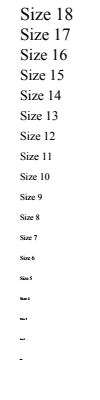
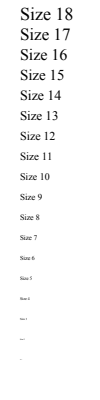
Remove ContrastAdjust().
This post-processing increased the contrast of scaled-down features -
mainly lines and fonts, relative to the background. The effect does not
improved readability and in some cases makes the scaled-down version
look like a different document at a glance. Text that is normal
weight appears bold when scaled down in these cases.

Commit-Queue: Henrique Nakashima <hnakashima@chromium.org>

diff --git a/fpdfsdk/fpdfannot_embeddertest.cpp b/fpdfsdk/fpdfannot_embeddertest.cpp
@@ -283,7 +283,7 @@ TEST_F(FPDFAnnotEmbeddertest, AddAndSaveUnderlineAnnotation) {
   FPDF_ClosePage(page);
 
   // Open the saved document.
-  const char md5[] = "184b67b322edaee27994b3232544b8b3";
+  const char md5[] = "dba153419f67b7c0c0e3d22d3e8910d5";
 
   OpenSavedDocument();
   LoadSavedPage();
@@ -316,13 +316,13 @@ TEST_F(FPDFAnnotEmbeddertest, ModifyRectQuadpointsWithAP) {
   const char md5_modified_highlight[] = "aec26075011349dec9bace891856b5f2";
   const char md5_modified_square[] = "057f57a32be95975775e5ec513fdcb56";
 #elif _FX_PLATFORM_ == _FX_PLATFORM_WINDOWS_
-  const char md5_original[] = "ade6762a70e85605546ce067e7d2148f";
-  const char md5_modified_highlight[] = "fb8440ed1a070b53ed5598ce7451cfad";
-  const char md5_modified_square[] = "7925f6726b343393f258e8b4e93dd65d";
+  const char md5_original[] = "0e27376094f11490f74c65f3dc3a42c5";
+  const char md5_modified_highlight[] = "66f3caef3a7d488a4fa1ad37fc06310e";
+  const char md5_modified_square[] = "a456dad0bc6801ee2d6408a4394af563";
 #else
-  const char md5_original[] = "ade6762a70e85605546ce067e7d2148f";
-  const char md5_modified_highlight[] = "fb8440ed1a070b53ed5598ce7451cfad";
-  const char md5_modified_square[] = "7925f6726b343393f258e8b4e93dd65d";
+  const char md5_original[] = "0e27376094f11490f74c65f3dc3a42c5";
+  const char md5_modified_highlight[] = "66f3caef3a7d488a4fa1ad37fc06310e";
+  const char md5_modified_square[] = "a456dad0bc6801ee2d6408a4394af563";
 #endif
 
   // Open a file with four annotations and load its first page.
@@ -492,15 +492,15 @@ TEST_F(FPDFAnnotEmbeddertest, AddAndModifyPath) {
   const char md5_two_paths[] = "e8994452fc4385337bae5522354e10ff";
   const char md5_new_annot[] = "ee5372b31fede117fc83b9384598aa25";
 #elif _FX_PLATFORM_ == _FX_PLATFORM_WINDOWS_
-  const char md5_original[] = "4f64add0190ede63f7bb9eb1e2e83edb";
-  const char md5_modified_path[] = "681f0d0738dded0722e146f6c219bfac";
-  const char md5_two_paths[] = "67c7e90fc3b64e20f6b69a1744f7f4f0";
-  const char md5_new_annot[] = "262187984451bae2fe826067d68623ff";
+  const char md5_original[] = "964f89bbe8911e540a465cf1a64b7f7e";
+  const char md5_modified_path[] = "3f77b88ce6048e08e636c9a03921b2e5";
+  const char md5_two_paths[] = "bffbf5ecd15862b9fe553c795400ff8e";
+  const char md5_new_annot[] = "e020534c7eeea76be537c70d6e359a40";
 #else
-  const char md5_original[] = "4f64add0190ede63f7bb9eb1e2e83edb";
-  const char md5_modified_path[] = "681f0d0738dded0722e146f6c219bfac";
-  const char md5_two_paths[] = "67c7e90fc3b64e20f6b69a1744f7f4f0";
-  const char md5_new_annot[] = "262187984451bae2fe826067d68623ff";
+  const char md5_original[] = "964f89bbe8911e540a465cf1a64b7f7e";
+  const char md5_modified_path[] = "3f77b88ce6048e08e636c9a03921b2e5";
+  const char md5_two_paths[] = "bffbf5ecd15862b9fe553c795400ff8e";
+  const char md5_new_annot[] = "e020534c7eeea76be537c70d6e359a40";
 #endif
 
   // Open a file with two annotations and load its first page.
@@ -673,13 +673,13 @@ TEST_F(FPDFAnnotEmbeddertest, AddAndModifyImage) {
   const char md5_new_image[] = "ff012f5697436dfcaec25b32d1333596";
   const char md5_modified_image[] = "86cf8cb2755a7a2046a543e66d9c1e61";
 #elif _FX_PLATFORM_ == _FX_PLATFORM_WINDOWS_
-  const char md5_original[] = "4f64add0190ede63f7bb9eb1e2e83edb";
-  const char md5_new_image[] = "6fb176c20996cc554d0210d8c8b6138f";
-  const char md5_modified_image[] = "546959714dfb0dcd7e7b00259e8d178c";
+  const char md5_original[] = "964f89bbe8911e540a465cf1a64b7f7e";
+  const char md5_new_image[] = "9ea8732dc9d579f68853f16892856208";
+  const char md5_modified_image[] = "74239d2a8c55c9de1dbb9cd8781895aa";
 #else
-  const char md5_original[] = "4f64add0190ede63f7bb9eb1e2e83edb";
-  const char md5_new_image[] = "6fb176c20996cc554d0210d8c8b6138f";
-  const char md5_modified_image[] = "546959714dfb0dcd7e7b00259e8d178c";
+  const char md5_original[] = "964f89bbe8911e540a465cf1a64b7f7e";
+  const char md5_new_image[] = "9ea8732dc9d579f68853f16892856208";
+  const char md5_modified_image[] = "74239d2a8c55c9de1dbb9cd8781895aa";
 #endif
 
   // Open a file with two annotations and load its first page.
@@ -750,13 +750,13 @@ TEST_F(FPDFAnnotEmbeddertest, AddAndModifyText) {
   const char md5_new_text[] = "e5680ed048c2cfd9a1d27212cdf41286";
   const char md5_modified_text[] = "79f5cfb0b07caaf936f65f6a7a57ce77";
 #elif _FX_PLATFORM_ == _FX_PLATFORM_WINDOWS_
-  const char md5_original[] = "4f64add0190ede63f7bb9eb1e2e83edb";
-  const char md5_new_text[] = "998abae4962f8f41e094e7612d8339fc";
-  const char md5_modified_text[] = "e89b82ca4589b8f0b45fff42ca3a96a4";
+  const char md5_original[] = "964f89bbe8911e540a465cf1a64b7f7e";
+  const char md5_new_text[] = "00b14fa2dc1c90d1b0d034e1608efef5";
+  const char md5_modified_text[] = "076c8f24a09ddc0e49f7e758edead6f0";
 #else
-  const char md5_original[] = "4f64add0190ede63f7bb9eb1e2e83edb";
-  const char md5_new_text[] = "998abae4962f8f41e094e7612d8339fc";
-  const char md5_modified_text[] = "e89b82ca4589b8f0b45fff42ca3a96a4";
+  const char md5_original[] = "964f89bbe8911e540a465cf1a64b7f7e";
+  const char md5_new_text[] = "00b14fa2dc1c90d1b0d034e1608efef5";
+  const char md5_modified_text[] = "076c8f24a09ddc0e49f7e758edead6f0";
 #endif
 
   // Open a file with two annotations and load its first page.
@@ -880,9 +880,9 @@ TEST_F(FPDFAnnotEmbeddertest, GetSetStringValue) {
 #if _FX_PLATFORM_ == _FX_PLATFORM_APPLE_
   const char md5[] = "4d64e61c9c0f8c60ab3cc3234bb73b1c";
 #elif _FX_PLATFORM_ == _FX_PLATFORM_WINDOWS_
-  const char md5[] = "0e3710ea6476f5bcba2cd39eb42d54e2";
+  const char md5[] = "c96ee1f316d7f5a1b154de9f9d467f01";
 #else
-  const char md5[] = "0e3710ea6476f5bcba2cd39eb42d54e2";
+  const char md5[] = "c96ee1f316d7f5a1b154de9f9d467f01";
 #endif
   OpenSavedDocument();
   LoadSavedPage();

diff --git a/fpdfsdk/fpdfedit_embeddertest.cpp b/fpdfsdk/fpdfedit_embeddertest.cpp
@@ -422,7 +422,7 @@ TEST_F(FPDFEditEmbeddertest, PathOnTopOfText) {
 #if _FX_PLATFORM_ == _FX_PLATFORM_APPLE_
   const char md5[] = "f9e6fa74230f234286bfcada9f7606d8";
 #else
-  const char md5[] = "bc6e6eb50dda4695ba0fb4d04ed82ada";
+  const char md5[] = "aa71b09b93b55f467f1290e5111babee";
 #endif
   CompareBitmap(bitmap, 200, 200, md5);
   FPDFBitmap_Destroy(bitmap);
@@ -551,7 +551,7 @@ TEST_F(FPDFEditEmbeddertest, AddStandardFontText) {
 #if _FX_PLATFORM_ == _FX_PLATFORM_APPLE_
   const char md5[] = "a4dddc1a3930fa694bbff9789dab4161";
 #else
-  const char md5[] = "7a35771853a1cbba38f6775807878625";
+  const char md5[] = "eacaa24573b8ce997b3882595f096f00";
 #endif
   CompareBitmap(page_bitmap, 612, 792, md5);
   FPDFBitmap_Destroy(page_bitmap);
@@ -569,9 +569,9 @@ TEST_F(FPDFEditEmbeddertest, AddStandardFontText) {
 #if _FX_PLATFORM_ == _FX_PLATFORM_APPLE_
   const char md5_2[] = "a5c4ace4c6f27644094813fe1441a21c";
 #elif _FX_PLATFORM_ == _FX_PLATFORM_WINDOWS_
-  const char md5_2[] = "b231b329a4b566fb9b42bfc15fe59bb7";
+  const char md5_2[] = "2587eac9a787e97a37636d54d11bd28d";
 #else
-  const char md5_2[] = "f85fae151851436072b7b3c6703e506a";
+  const char md5_2[] = "76fcc7d08aa15445efd2e2ceb7c6cc3b";
 #endif
   CompareBitmap(page_bitmap, 612, 792, md5_2);
   FPDFBitmap_Destroy(page_bitmap);
@@ -589,9 +589,9 @@ TEST_F(FPDFEditEmbeddertest, AddStandardFontText) {
 #if _FX_PLATFORM_ == _FX_PLATFORM_APPLE_
   const char md5_3[] = "40b3ef04f915ff4c4208948001763544";
 #elif _FX_PLATFORM_ == _FX_PLATFORM_WINDOWS_
-  const char md5_3[] = "ba874b3b137f984510c4e287ed4ba7ae";
+  const char md5_3[] = "7cb61ec112cf400b489360d443ffc9d2";
 #else
-  const char md5_3[] = "c5aed6a8ef05558c8c47d58c87cbcb46";
+  const char md5_3[] = "b8a21668f1dab625af7c072e07fcefc4";
 #endif
   CompareBitmap(page_bitmap, 612, 792, md5_3);
   FPDFBitmap_Destroy(page_bitmap);
@@ -892,7 +892,7 @@ TEST_F(FPDFEditEmbeddertest, AddTrueTypeFontText) {
 #if _FX_PLATFORM_ == _FX_PLATFORM_APPLE_
     const char md5[] = "17d2b6cd574cf66170b09c8927529a94";
 #else
-    const char md5[] = "1722c6a9deed953d730de9cd13dcbd55";
+    const char md5[] = "70592859010ffbf532a2237b8118bcc4";
 #endif  // _FX_PLATFORM_ == _FX_PLATFORM_APPLE_
     CompareBitmap(page_bitmap, 612, 792, md5);
     FPDFBitmap_Destroy(page_bitmap);
@@ -910,7 +910,7 @@ TEST_F(FPDFEditEmbeddertest, AddTrueTypeFontText) {
 #if _FX_PLATFORM_ == _FX_PLATFORM_APPLE_
   const char md5_2[] = "8eded4193ff1f0f77b8b600a825e97ea";
 #else
-  const char md5_2[] = "9d7885072058f6c3e68ecaf32e917f30";
+  const char md5_2[] = "c1d10cce1761c4a998a16b2562030568";
 #endif  // _FX_PLATFORM_ == _FX_PLATFORM_APPLE_
   CompareBitmap(page_bitmap2, 612, 792, md5_2);
   FPDFBitmap_Destroy(page_bitmap2);
@@ -985,7 +985,7 @@ TEST_F(FPDFEditEmbeddertest, AddCIDFontText) {
 
   // Check that the text renders properly.
   FPDF_BITMAP page_bitmap = RenderPage(page);
-  const char md5[] = "2bc6c1aaa2252e73246a75775ccf38c2";
+  const char md5[] = "c68cd79aa72bf83a7b25271370d46b21";
   CompareBitmap(page_bitmap, 612, 792, md5);
   FPDFBitmap_Destroy(page_bitmap);
 

diff --git a/core/fxge/cfx_facecache.cpp b/core/fxge/cfx_facecache.cpp
@@ -35,47 +35,7 @@ namespace {
 
 constexpr uint32_t kInvalidGlyphIndex = static_cast<uint32_t>(-1);
 
-constexpr int kMinPixel = 0;
-constexpr int kMaxPixel = 255;
-
 constexpr int kMaxGlyphDimension = 2048;
-
-void ContrastAdjust(uint8_t* pDataIn,
-                    uint8_t* pDataOut,
-                    int nWidth,
-                    int nHeight,
-                    int nSrcRowBytes,
-                    int nDstRowBytes) {
-  int max = kMinPixel;
-  int min = kMaxPixel;
-  for (int row = 0; row < nHeight; row++) {
-    uint8_t* pRow = pDataIn + row * nSrcRowBytes;
-    for (int col = 0; col < nWidth; col++) {
-      int val = pRow[col];
-      max = std::max(val, max);
-      min = std::min(val, min);
-    }
-  }
-  int diff = max - min;
-  if (diff == kMinPixel || diff == kMaxPixel) {
-    int rowbytes = std::min(abs(nSrcRowBytes), nDstRowBytes);
-    for (int row = 0; row < nHeight; row++) {
-      memcpy(pDataOut + row * nDstRowBytes, pDataIn + row * nSrcRowBytes,
-             rowbytes);
-    }
-    return;
-  }
-  float rate = 255.f / diff;
-  for (int row = 0; row < nHeight; row++) {
-    uint8_t* pSrcRow = pDataIn + row * nSrcRowBytes;
-    uint8_t* pDstRow = pDataOut + row * nDstRowBytes;
-    for (int col = 0; col < nWidth; col++) {
-      int val = static_cast<int>((pSrcRow[col] - min) * rate + 0.5);
-      pDstRow[col] =
-          static_cast<uint8_t>(pdfium::clamp(val, kMinPixel, kMaxPixel));
-    }
-  }
-}
 
 struct UniqueKeyGen {
   void Generate(int count, ...);
@@ -224,18 +184,9 @@ std::unique_ptr<CFX_GlyphBitmap> CFX_FaceCache::RenderGlyph(
     }
   } else {
     memset(pDestBuf, 0, dest_pitch * bmheight);
-    if (anti_alias == FXFT_RENDER_MODE_MONO &&
-        FXFT_Get_Bitmap_PixelMode(FXFT_Get_Glyph_Bitmap(m_Face)) ==
-            FXFT_PIXEL_MODE_MONO) {
-      int rowbytes = abs(src_pitch) > dest_pitch ? dest_pitch : abs(src_pitch);
-      for (int row = 0; row < bmheight; row++) {
-        memcpy(pDestBuf + row * dest_pitch, pSrcBuf + row * src_pitch,
-               rowbytes);
-      }
-    } else {
-      ContrastAdjust(pSrcBuf, pDestBuf, bmwidth, bmheight, src_pitch,
-                     dest_pitch);
-    }
+    int rowbytes = std::min(abs(src_pitch), dest_pitch);
+    for (int row = 0; row < bmheight; row++)
+      memcpy(pDestBuf + row * dest_pitch, pSrcBuf + row * src_pitch, rowbytes);
   }
   return pGlyphBitmap;
 }

diff --git a/core/fpdfapi/parser/cpdf_security_handler_embeddertest.cpp b/core/fpdfapi/parser/cpdf_security_handler_embeddertest.cpp
@@ -43,11 +43,11 @@ TEST_F(CPDFSecurityHandlerEmbeddertest, OwnerPassword) {
 
 TEST_F(CPDFSecurityHandlerEmbeddertest, PasswordAfterGenerateSave) {
 #if _FX_PLATFORM_ == _FX_PLATFORM_LINUX_
-  const char md5[] = "e4a3701ca5b2a759e06455aa8d97d46e";
+  const char md5[] = "7048dca58e2ed8f93339008b91e4eb4e";
 #elif _FX_PLATFORM_ == _FX_PLATFORM_APPLE_
   const char md5[] = "6951b6c9891dfe0332a5b1983e484400";
 #else
-  const char md5[] = "50985f3440d3f66c3b599ab138214015";
+  const char md5[] = "a5dde3c6c37b8716b9b369a03752a728";
 #endif  // _FX_PLATFORM_ == _FX_PLATFORM_LINUX_
   {
     ASSERT_TRUE(OpenDocument("encrypted.pdf", "5678", true));

diff --git a/fpdfsdk/fpdfformfill_embeddertest.cpp b/fpdfsdk/fpdfformfill_embeddertest.cpp
@@ -524,9 +524,9 @@ TEST_F(FPDFFormFillEmbeddertest, FormText) {
   const char md5_2[] = "35b1a4b679eafc749a0b6fda750c0e8d";
   const char md5_3[] = "65c64a7c355388f719a752aa1e23f6fe";
 #else
-  const char md5_1[] = "a5e3ac74c2ee123ec6710e2f0ef8424a";
-  const char md5_2[] = "4526b09382e144d5506ad92149399de6";
-  const char md5_3[] = "80356067d860088864cf50ff85d8459e";
+  const char md5_1[] = "b890950d4b9bc163b1a96797f3004b53";
+  const char md5_2[] = "11487d5597599a26e8912b9c1d9422cb";
+  const char md5_3[] = "bffe0ecea9a533f217047ee41d6be466";
 #endif
   {
     EXPECT_TRUE(OpenDocument("text_form.pdf"));

diff --git a/core/fpdfapi/parser/fpdf_parser_decode_embeddertest.cpp b/core/fpdfapi/parser/fpdf_parser_decode_embeddertest.cpp
@@ -115,9 +115,9 @@ TEST_F(FPDFParserDecodeEmbeddertest, Bug_455199) {
 #if _FX_PLATFORM_ == _FX_PLATFORM_APPLE_
   const char kExpectedMd5sum[] = "b90475ca64d1348c3bf5e2b77ad9187a";
 #elif _FX_PLATFORM_ == _FX_PLATFORM_WINDOWS_
-  const char kExpectedMd5sum[] = "9a2637b73fd5265309bfddd9c69476cd";
+  const char kExpectedMd5sum[] = "e5a6fa28298db07484cd922f3e210c88";
 #else
-  const char kExpectedMd5sum[] = "f7e129d97c58e91adeace32a4327b925";
+  const char kExpectedMd5sum[] = "2baa4c0e1758deba1b9c908e1fbd04ed";
 #endif
   CompareBitmap(bitmap, 200, 200, kExpectedMd5sum);
   FPDFBitmap_Destroy(bitmap);
